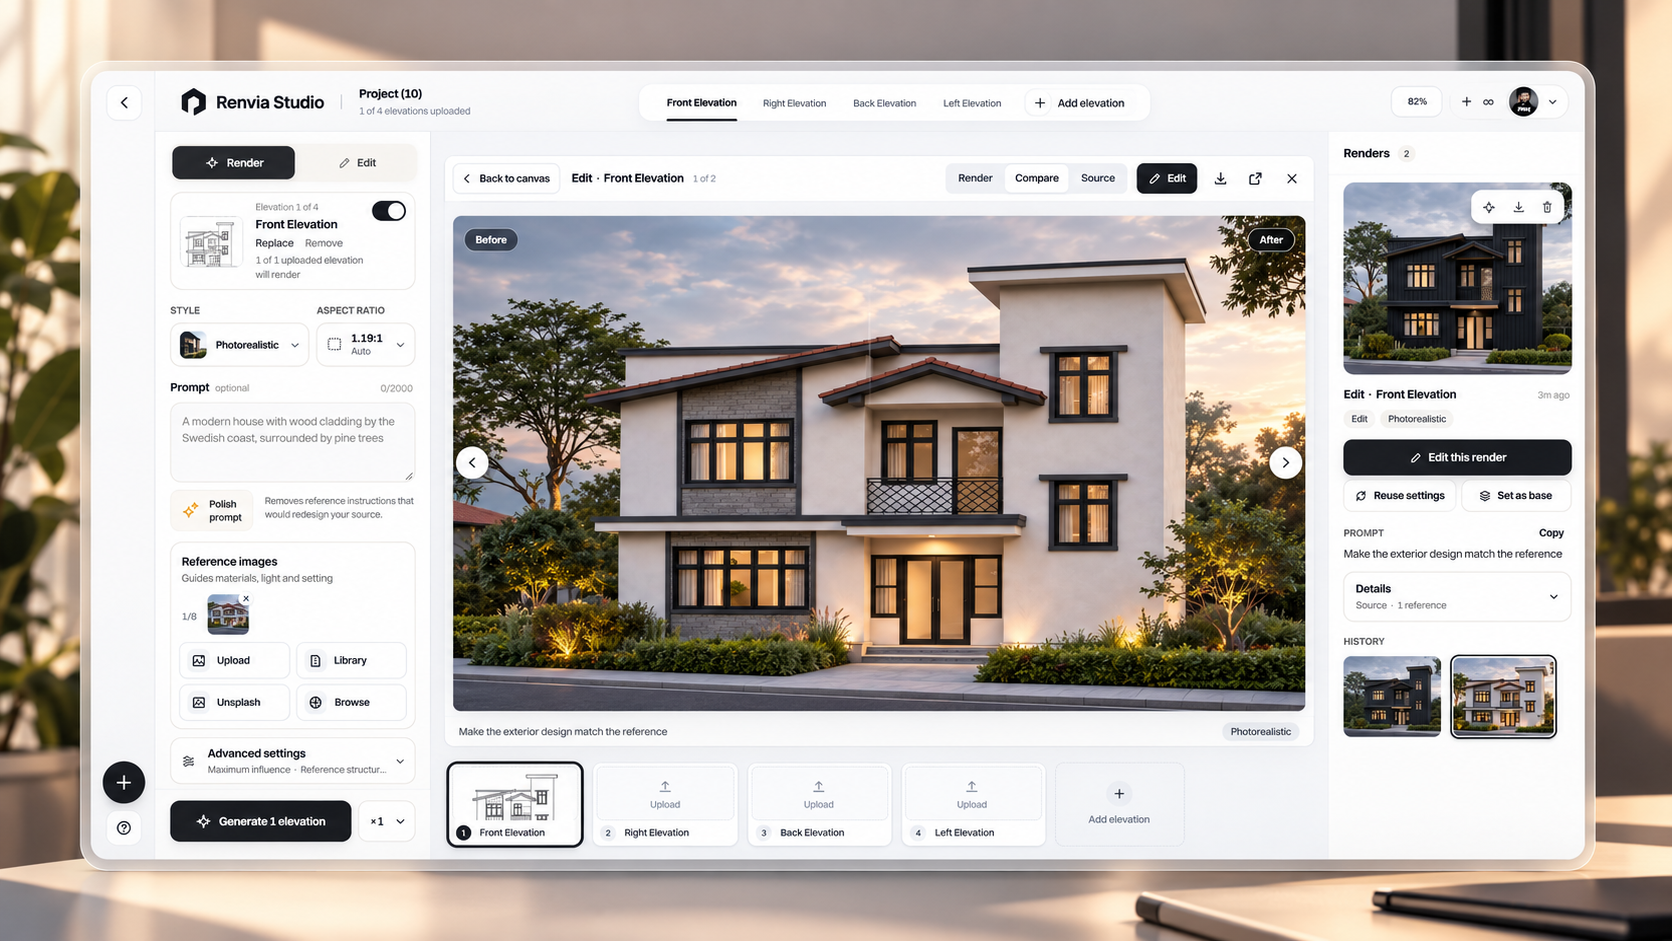
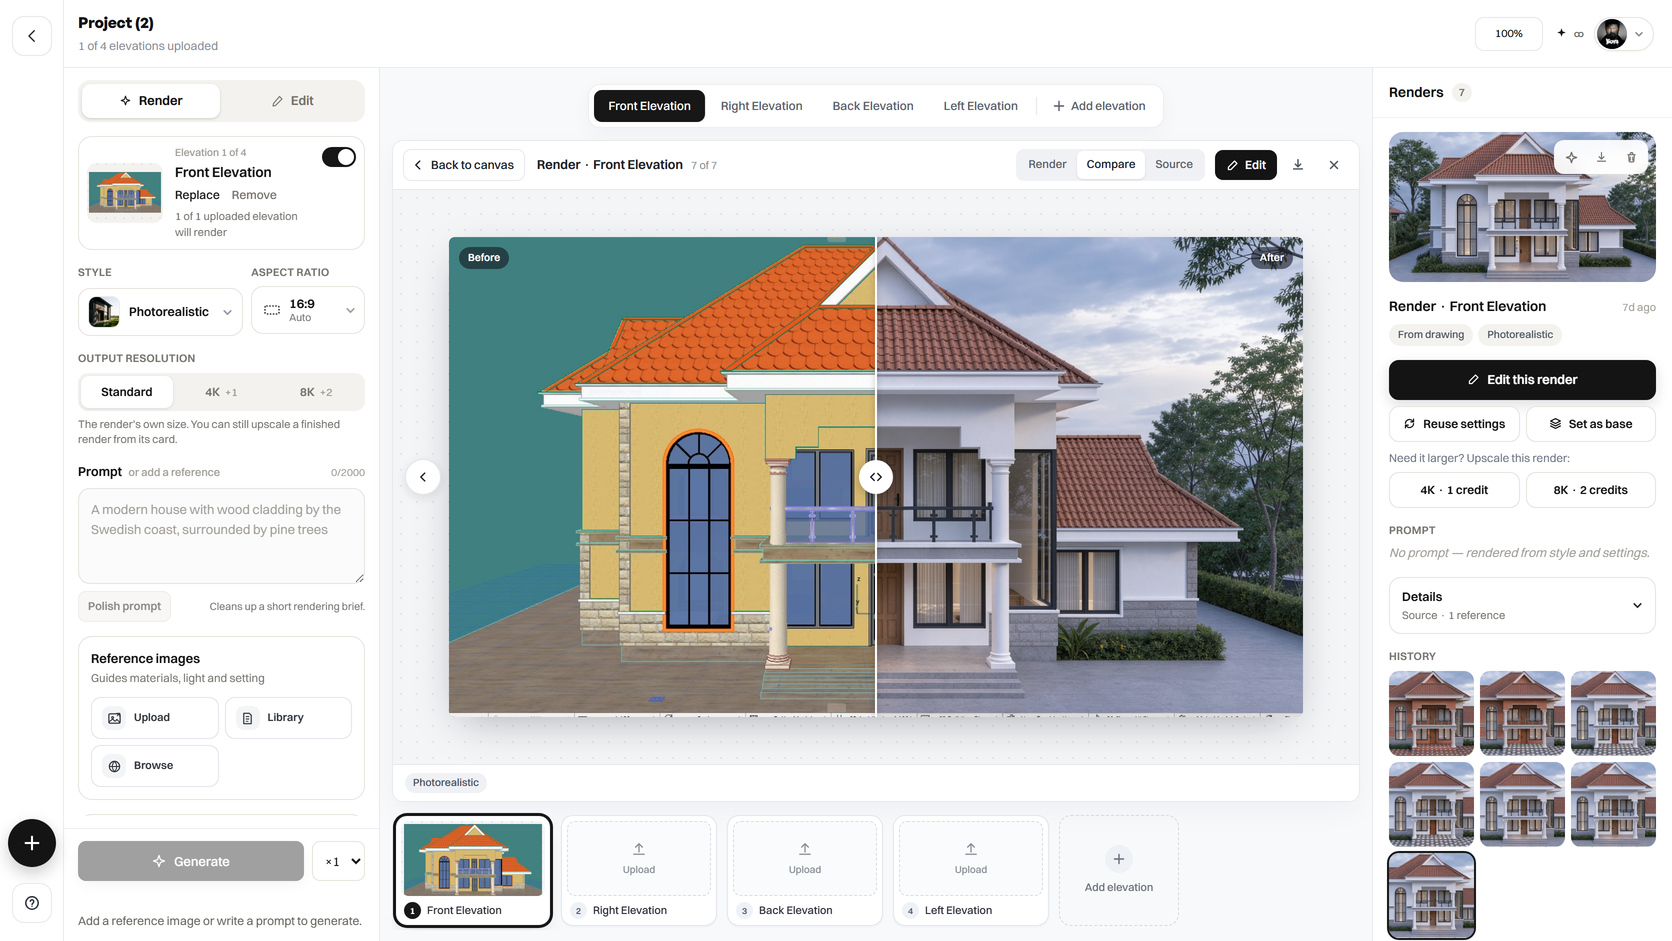
docs(marketing): replace the pre-rebrand Studio screenshots
The website's Studio showcase and the README picture were an old capture
showing "Renvia Studio" and the since-removed Unsplash button. Both are
now a real capture of the live Studio at ramah-studio-app.vercel.app: a
project's coloured front elevation drawing compared with its photoreal
render, with the style, prompt and reference controls and the render
history around it. The admin-only spend line was hidden for the capture.

The showcase image is renamed studio-showcase.webp (139 KB, 1672 x 941,
the size its box expects).

diff --git a/apps/marketing/components/studio-showcase/StudioShowcase.tsx b/apps/marketing/components/studio-showcase/StudioShowcase.tsx
@@ -38,8 +38,8 @@ export function StudioShowcase() {
           {/* The image carries its own device frame and scene, so it sits unframed here. */}
           <div className="relative z-10 aspect-[1672/941] overflow-hidden rounded-[18px] border border-black/10 bg-[#e9e7e2] shadow-[0_55px_110px_-52px_rgba(20,20,18,.68)] sm:rounded-[26px]">
             <Image
-              src="/studio/renvia-studio-showcase.webp"
-              alt="Ramah Studio comparing a front elevation before and after a photorealistic render, with style, prompt and reference image controls on the left and render history on the right"
+              src="/studio/studio-showcase.webp"
+              alt="Ramah Studio comparing a coloured front elevation drawing with its photorealistic render, with style, prompt and reference image controls on the left and render history on the right"
               fill
               sizes="(min-width: 1440px) 1400px, 100vw"
               className="object-cover"

diff --git a/docs/rebrand-ramah-studio.md b/docs/rebrand-ramah-studio.md
@@ -133,7 +133,7 @@ The Studio no longer searches Unsplash for reference images. References come fro
 | # | Action | Where | Who | What customers see until then |
 | --- | --- | --- | --- | --- |
 | 1 | Owner approves the reconstructed logo (sign-off sheet) | — | Owner | Nothing; the logo is already live |
-| 2 | Replace the Studio screenshot on the website and in the README | `apps/marketing/public/studio/renvia-studio-showcase.webp`, `docs/images/studio-hero.png` | Needs a signed-in account with real projects | The screenshot shows "Renvia Studio" and the removed Unsplash button |
+| 2 | ~~Replace the Studio screenshot on the website and in the README~~ **Done 2026-10-20** | `apps/marketing/public/studio/studio-showcase.webp`, `docs/images/studio-hero.png` | — | A real capture of the live Studio (owner's account, Project (2), drawing vs render in compare view); the admin-only budget line was hidden |
 | 3 | Rename the application in Clerk | Clerk dashboard | Account owner | Admin sign-in says "Sign in to Renvia"; Clerk emails say Renvia |
 | 4 | Update business and plan names in PayPal and Paystack | PayPal and Paystack dashboards | Account owner | Receipts and checkout may show the old name |
 | 5 | Update text stored in the database | Admin: Plans (Free plan description), Beta programs (names) | Admin user | Free plan says "Try Renvia with monthly credits…"; old beta program names |

diff --git a/README.md b/README.md
@@ -1,6 +1,6 @@
 # Ramah Studio International
 
-![The Studio: rendering a front elevation with a before/after compare, reference images and render history (screenshot from before the rebrand)](docs/images/studio-hero.png)
+![Ramah Studio: comparing a coloured front elevation drawing with its photoreal render, with style, prompt and reference controls and render history](docs/images/studio-hero.png)
 
 AI-powered architectural visualization SaaS. Customers upload an elevation or
 sketch, work on an infinite canvas, and generate photoreal renders and masked
